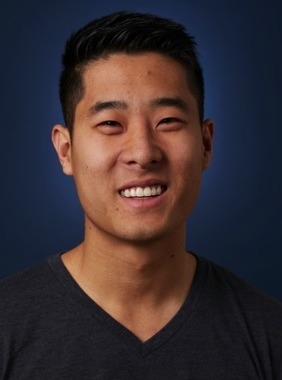
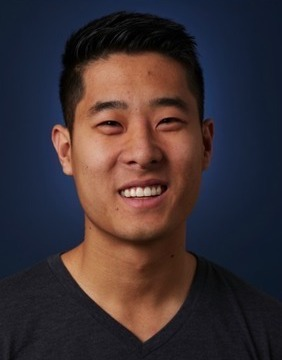
Updated speakers

diff --git a/index.html b/index.html
@@ -403,7 +403,7 @@
                                                 class="et_pb_module et_pb_text et_pb_text_6  et_pb_text_align_center et_pb_bg_layout_light">
                                                 <div class="et_pb_text_inner">
                                                     <h3><b>Hugo Larochelle</b></h3>
-                                                    <p><span style="font-weight: 400;">Adjunct Professor, Université de Montréal, Google, Canada CIFAR AI Chair</span></p>
+                                                    <p><span style="font-weight: 400;">Adjunct Professor, Université de Montréal & Google & Canada CIFAR AI Chair</span></p>
                                                 </div>
                                             </div>
                                         </div>
@@ -452,6 +452,101 @@
                                                 </div>
                                             </div>
                                         </div>
+                                        <div
+                                            class="et_pb_column et_pb_column_1_5 et_pb_column_4  et_pb_css_mix_blend_mode_passthrough">
+                                            <div class="et_pb_module et_pb_image et_pb_image_1 et_animated et-waypoint">
+                                                <a href="https://faculty.cc.gatech.edu/~parikh/"
+                                                    target="_blank"><span
+                                                        class="et_pb_image_wrap has-box-shadow-overlay">
+                                                        <div class="box-shadow-overlay"></div><img loading="lazy"
+                                                            width="200" height="200"
+                                                            src="img/deviparikh.jpg"
+                                                            alt="" title=""
+                                                            srcset="img/deviparikh.jpg 200w, img/deviparikh.jpg 150w"
+                                                            sizes="(max-width: 200px) 100vw, 200px"
+                                                            class="wp-image-370" />
+                                                    </span></a>
+                                            </div>
+                                            <div
+                                                class="et_pb_module et_pb_text et_pb_text_7  et_pb_text_align_center et_pb_bg_layout_light">
+                                                <div class="et_pb_text_inner">
+                                                    <h3><b>Devi Parikh</b></h3>
+                                                    <p><span style="font-weight: 400;">Senior Director of Generative AI, Meta &
+                                                        Associate Professor at Georgia Tech</span></p>
+                                                </div>
+                                            </div>
+                                        </div>
+                                    </div>
+                                    <div class="et_pb_row et_pb_row_3">
+
+                                        <div
+                                            class="et_pb_column et_pb_column_1_5 et_pb_column_4  et_pb_css_mix_blend_mode_passthrough">
+                                            <div class="et_pb_module et_pb_image et_pb_image_1 et_animated et-waypoint">
+                                                <a href="https://www.surbhigoel.com/"
+                                                    target="_blank"><span
+                                                        class="et_pb_image_wrap has-box-shadow-overlay">
+                                                        <div class="box-shadow-overlay"></div><img loading="lazy"
+                                                            width="200" height="200"
+                                                            src="img/surbhi.jpeg"
+                                                            alt="" title=""
+                                                            srcset="img/surbhi.jpeg 200w, img/surbhi.jpeg 150w"
+                                                            sizes="(max-width: 200px) 100vw, 200px"
+                                                            class="wp-image-370" />
+                                                    </span></a>
+                                            </div>
+                                            <div
+                                                class="et_pb_module et_pb_text et_pb_text_7  et_pb_text_align_center et_pb_bg_layout_light">
+                                                <div class="et_pb_text_inner">
+                                                    <h3><b>Surbhi Goel</b></h3>
+                                                    <p><span style="font-weight: 400;">Magerman Term Assistant Professor at University of Pennsylvania</span></p>
+                                                </div>
+                                            </div>
+                                        </div>
+                                        <div
+                                            class="et_pb_column et_pb_column_1_5 et_pb_column_3  et_pb_css_mix_blend_mode_passthrough">
+                                            <div class="et_pb_module et_pb_image et_pb_image_0 et_animated et-waypoint">
+                                                <a href="https://alrodri.engin.umich.edu/" target="_blank"><span
+                                                        class="et_pb_image_wrap has-box-shadow-overlay">
+                                                        <div class="box-shadow-overlay"></div><img width="200"
+                                                            height="270"
+                                                            src="img/alexander.jpeg"
+                                                            alt="" title=""
+                                                            srcset="img/alexander.jpeg 250w, img/alexander.jpeg 200w"
+                                                            sizes="(max-width: 250px) 100vw, 250px"
+                                                            class="wp-image-369" />
+                                                    </span></a>
+                                            </div>
+                                            <div
+                                                class="et_pb_module et_pb_text et_pb_text_6  et_pb_text_align_center et_pb_bg_layout_light">
+                                                <div class="et_pb_text_inner">
+                                                    <h3><b>Alexander Rodríguez</b></h3>
+                                                    <p><span style="font-weight: 400;">Assistant Professor at University of Michigan</span></p>
+                                                </div>
+                                            </div>
+                                        </div>
+                                        <div
+                                            class="et_pb_column et_pb_column_1_5 et_pb_column_3  et_pb_css_mix_blend_mode_passthrough">
+                                            <div class="et_pb_module et_pb_image et_pb_image_0 et_animated et-waypoint">
+                                                <a href="https://david-abel.github.io/" target="_blank"><span
+                                                        class="et_pb_image_wrap has-box-shadow-overlay">
+                                                        <div class="box-shadow-overlay"></div><img width="200"
+                                                            height="270"
+                                                            src="img/david.jpeg"
+                                                            alt="" title=""
+                                                            srcset="img/david.jpeg 250w, img/david.jpeg 200w"
+                                                            sizes="(max-width: 250px) 100vw, 250px"
+                                                            class="wp-image-369" />
+                                                    </span></a>
+                                            </div>
+                                            <div
+                                                class="et_pb_module et_pb_text et_pb_text_6  et_pb_text_align_center et_pb_bg_layout_light">
+                                                <div class="et_pb_text_inner">
+                                                    <h3><b>David Abel</b></h3>
+                                                    <p><span style="font-weight: 400;">Senior Research Scientist at Google DeepMind</span></p>
+                                                </div>
+                                            </div>
+                                        </div>
+                                        
                                         <div
                                             class="et_pb_column et_pb_column_1_5 et_pb_column_4  et_pb_css_mix_blend_mode_passthrough">
                                             <div class="et_pb_module et_pb_image et_pb_image_1 et_animated et-waypoint">
@@ -552,9 +647,9 @@
 
 
                                                 <h5 class="et_pb_toggle_title">Hugo Larochelle</h5>
-                                                <div class="et_pb_toggle_content clearfix">Abstraction:
+                                                <!-- <div class="et_pb_toggle_content clearfix">Abstraction:
                                                     xxxxxxxxxxxxxxxxx.
-                                                </div>
+                                                </div> -->
                                             </div>
                                         <!-- <div
                                                 class="et_pb_module et_pb_toggle et_pb_toggle_0 et_pb_toggle_item  et_pb_toggle_close">
@@ -676,9 +771,9 @@
 
 
                                             <h5 class="et_pb_toggle_title">Been Kim</h5>
-                                            <div class="et_pb_toggle_content clearfix">Abstraction:
+                                            <!-- <div class="et_pb_toggle_content clearfix">Abstraction:
                                                 xxxxxxxxxxxxxxxxx.
-                                            </div>
+                                            </div> -->
                                         </div>
                                     </div>
 
@@ -790,17 +885,17 @@
 
                                             <div class="et_pb_text_inner">
                                                 <h3>Slow Science (Panel Discussion)</h3>
-                                                <p>By <a href="#">Speakers</a></p>
+                                                <!-- <p>By <a href="#">Speakers</a></p> -->
                                             </div>
                                         </div>
                                         <div
                                                 class="et_pb_module et_pb_toggle et_pb_toggle_1 et_pb_toggle_item  et_pb_toggle_close">
 
 
-                                            <h5 class="et_pb_toggle_title">Invited speakers</h5>
-                                            <div class="et_pb_toggle_content clearfix">Abstraction:
+                                            <h5 class="et_pb_toggle_title">Panelists: Alexander Rodriguez, Surbhi Goel, David Abel, Devi Parikh</h5>
+                                            <!-- <div class="et_pb_toggle_content clearfix">Abstraction:
                                                 xxxxxxxxxxxxxxxxx.
-                                            </div>
+                                            </div> -->
                                         </div>
                                     </div>
 
@@ -917,9 +1012,9 @@
 
 
                                                 <h5 class="et_pb_toggle_title">Milind Tambe</h5>
-                                                <div class="et_pb_toggle_content clearfix">Abstraction:
+                                                <!-- <div class="et_pb_toggle_content clearfix">Abstraction:
                                                     xxxxxxxxxxxxxxxxx.
-                                                </div>
+                                                </div> -->
                                             </div>
                                         </div>
 
@@ -982,9 +1077,9 @@
 
 
                                                 <h5 class="et_pb_toggle_title">Brian Liou</h5>
-                                                <div class="et_pb_toggle_content clearfix">Abstraction:
+                                                <!-- <div class="et_pb_toggle_content clearfix">Abstraction:
                                                     xxxxxxxxxxxxxxxxx.
-                                                </div>
+                                                </div> -->
                                             </div>
                                         </div>
 
